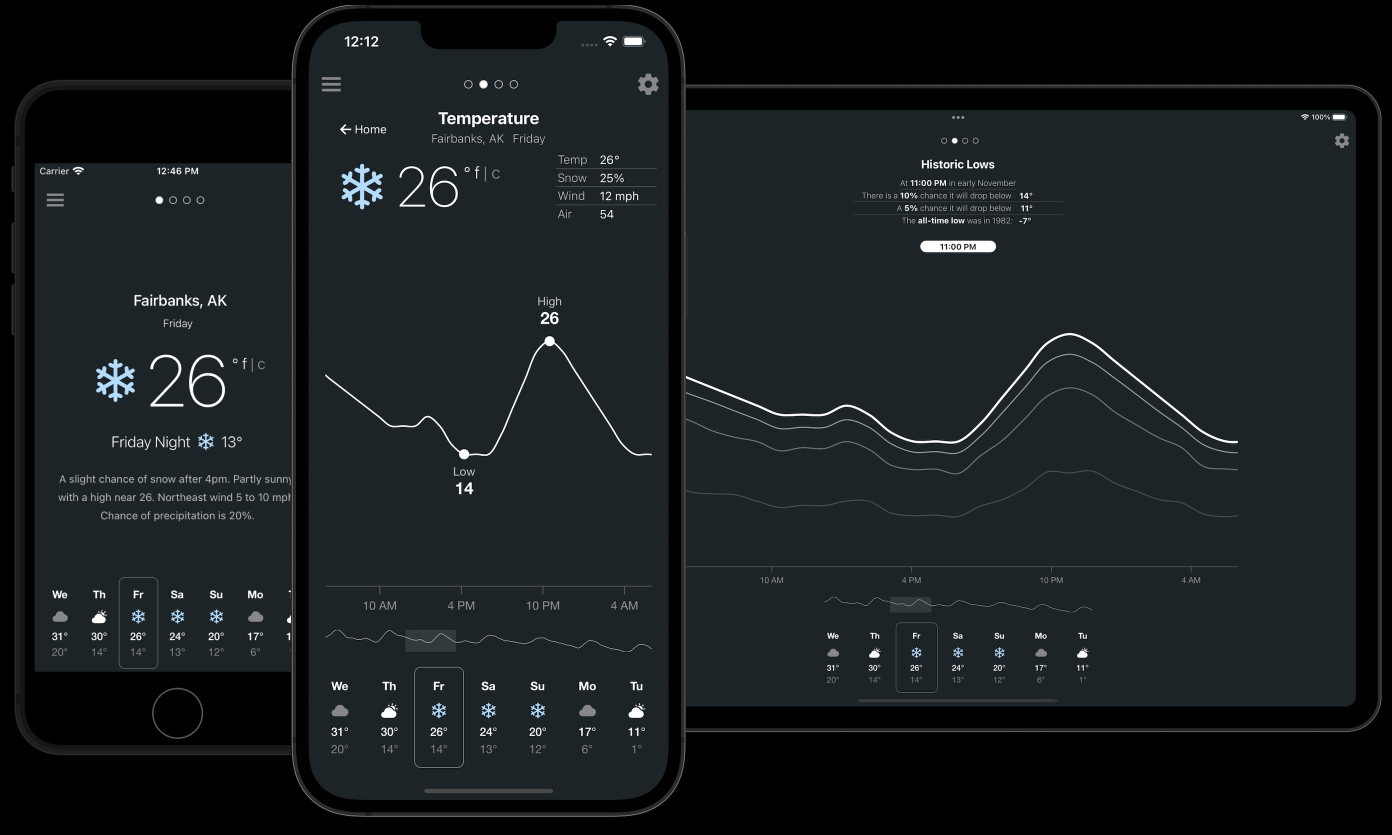
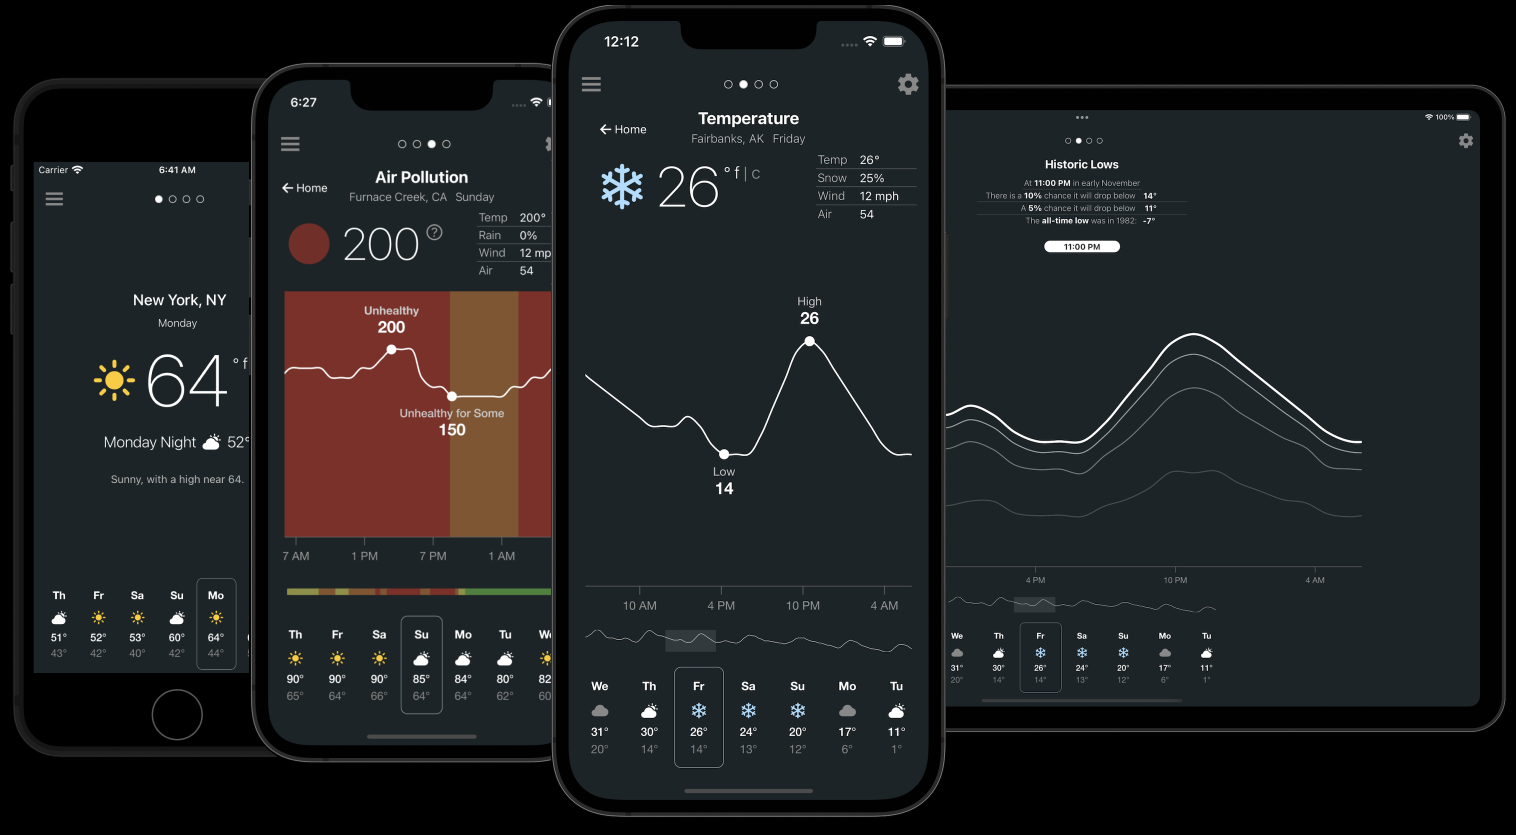
none

diff --git a/weather.html b/weather.html
@@ -65,7 +65,7 @@
     <div class="container-fluid-content-02 overflow-hidden" 
       style="max-width:1600px; align-items:center, justify-content:center; padding-left:100px">
       <img src="images/weather-01.png" class="img-fluid" alt="Image">
-      <div class="caption pt-4 text-medium-light">Screenshots of the prototype running on an iPhone SE, iPhone 13 Max, and a 13-inch iPad Pro.</div>
+      <div class="caption pt-4 text-medium-light">Screenshots of the prototype running on an iPhone SE, iPhone 13 Mini, iPhone 13 Max, and a 12.9-inch iPad Pro.</div>
     </div>
   </div>
 
@@ -235,11 +235,13 @@
         <img src="images/weather-controls.gif" class="img-fluid p-2" alt="image">
       </div>
       <div class="col-lg pt-5">
-        <div class="bold-5 text-extra-light ps-3 pe-3 pb-4 pt-2"><b>Put controls near the thing they affect</b></div>
-        <div class="regular-lg text-light ps-3 pe-3 pb-4">
-          This is a core Nielsen/Norman heuristic, but I have found it lacking in many mobile UIs.
+        <div class="headline-small pb-4" style="text-align: left; color:#ddd; font-weight:400">
+          Put controls near the thing they affect
         </div>
-        <div class="regular-lg text-light ps-3 pe-3">
+        <div class="regular-lg text-light pb-4">
+          This is a standard Nielsen/Norman heuristic, but I have found it lacking in many mobile UIs.
+        </div>
+        <div class="regular-lg text-light">
           I put the controls for toggling between fahrenheit and celsius next to temperature readings. (This is heavily influenced by Google’s weather module, which has a lot of features I like.) 
         </div>
       </div>
